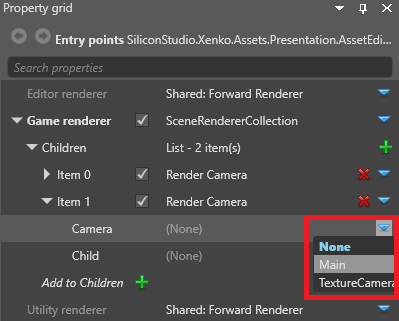
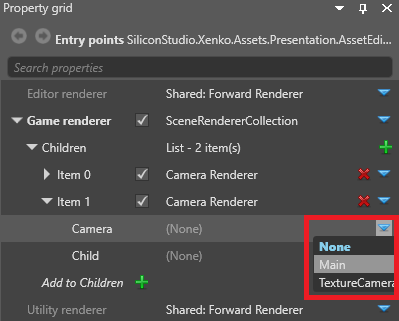
[Graphics compositor] update screenshots with UI changes

Changed region(s): [[0.4211, 0.5919, 0.6617, 0.6542], [0.4211, 0.5296, 0.6617, 0.5607]]

diff --git a/manual/graphics/graphics-compositor/scene-renderers.md b/manual/graphics/graphics-compositor/scene-renderers.md
@@ -26,11 +26,11 @@ Clears a frame, with a solid color.
 | Depth value   | The depth value used to clear the depth texture of the render frame
 | Stencil value | The stencil value used to clear the stencil texture of the render frame
 
-## Render camera
+## Camera renderer
 
 Uses @'SiliconStudio.Xenko.Rendering.Compositing.SceneCameraRenderer.Child' to render a view from a [camera slot](camera-slots.md). In simple terms, the **render camera** renderer takes the input from a camera in the scene so it can be displayed somewhere.
 
-![Render camera properties](media/render-camera-1.png)
+![Camera renderer properties](media/render-camera-1.png)
 
 ### Properties
 
@@ -41,7 +41,7 @@ Uses @'SiliconStudio.Xenko.Rendering.Compositing.SceneCameraRenderer.Child' to r
 
 ## Scene renderer collection
 
-The **scene renderer collection** executes multiple renderers (eg render camera, render texture, etc) in sequence. In simple terms, this lets you set multiple renderers for an entry point. You can add as many renderers to the collection as you need.
+The **scene renderer collection** executes multiple renderers (eg camera renderer, render texture, etc) in sequence. In simple terms, this lets you set multiple renderers for an entry point. You can add as many renderers to the collection as you need.
 
 >[!Note]
 >Xenko executes the renderers in list order.
@@ -80,7 +80,7 @@ Uses @'SiliconStudio.Xenko.Rendering.Compositing.ForceAspectRatioSceneRenderer' 
 
 ## Render texture
 
-Renders to a render texture, which you can display in your scene (eg to create security camera footage on a screen). For more information, see [Render to a texture](render-to-a-texture.md).
+Renders to a render texture, which you can display in your scene (eg to display security camera footage on a screen). For more information, see [Render to a texture](render-to-a-texture.md).
 
 ![Render texture properties](media/render-texture-scene-renderer-properties.png)
 

diff --git a/manual/graphics/graphics-compositor/render-to-a-texture.md b/manual/graphics/graphics-compositor/render-to-a-texture.md
@@ -123,9 +123,9 @@ This page describes the simplest way to do this from scratch, using two cameras 
 
 ### 1. Render the texture
 
-1. Under **Game renderer**, next to **Children**, click ![Green plus button](~/manual/game-studio/media/green-plus-icon.png) (**Add a new item to the list**) and select **Render camera**.
+1. Under **Game renderer**, next to **Children**, click ![Green plus button](~/manual/game-studio/media/green-plus-icon.png) (**Add a new item to the list**) and select **Camera renderer**.
 
-    ![Select render camera](media/select-render-camera.png)
+    ![Select camera renderer](media/select-render-camera.png)
 
 2. Next to **Camera**, click ![Blue arrow button](~/manual/game-studio/media/blue-arrow-icon.png) (**Create a new instance with the selected type**) and select the camera you want to render to a texture.
 
@@ -153,11 +153,11 @@ This page describes the simplest way to do this from scratch, using two cameras 
 
 ### 2. Render the main camera
 
-1. Under **Game renderer**, next to **Children**, click ![Green plus button](~/manual/game-studio/media/green-plus-icon.png) (**Add a new item to the list**) and select **Render camera**.
+1. Under **Game renderer**, next to **Children**, click ![Green plus button](~/manual/game-studio/media/green-plus-icon.png) (**Add a new item to the list**) and select **Camera renderer**.
 
-    ![Select render camera](media/select-render-camera2.png)
+    ![Select camera renderer](media/select-render-camera2.png)
 
-2. Under **Children**, expand the second **Render camera** in the list.
+2. Under **Children**, expand the second **camera renderer** in the list.
 
     ![Expand list](media/expand-list.png)
 

diff --git a/manual/graphics/graphics-compositor/index.md b/manual/graphics/graphics-compositor/index.md
@@ -82,7 +82,7 @@ Each entry point can use a separate rendering pipeline. For example, the game an
 
     ![Select renderer](media/connect-entry-point.png)
 
-For information about the different renderers, see [Scene renders](scene-renderers.md).
+For information about the different renderers, see [Scene renderers](scene-renderers.md).
 
 ### Forward renderer
 
